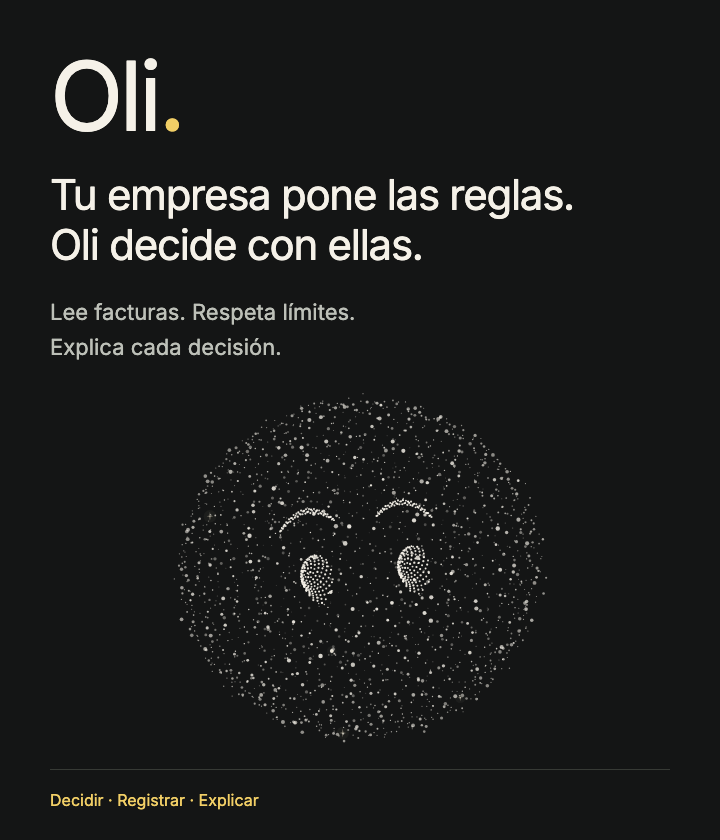
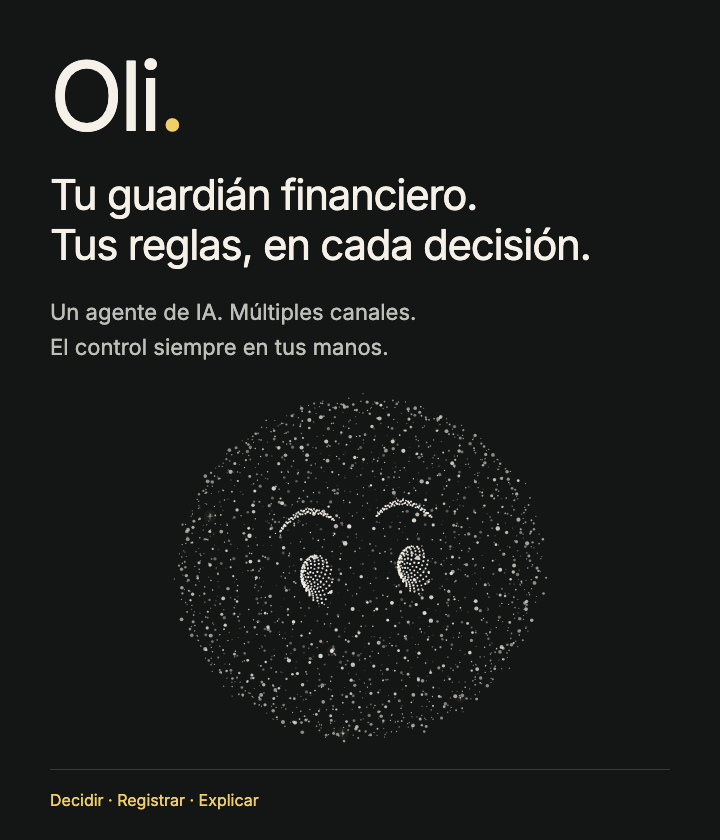
docs: position Oli as an AI financial guardian for agent workflows

Changed region(s): [[0.0611, 0.1857, 0.825, 0.4333]]

diff --git a/docs/assets/readme/cover.html b/docs/assets/readme/cover.html
@@ -3,6 +3,6 @@
 @font-face{font-family:Inter;src:url('../../../examples/conversation-proposal/assets/inter.ttf')}*{box-sizing:border-box}html,body{margin:0;background:#141515;color:#f5f1e8;font-family:Inter,sans-serif}.hero{position:relative;width:1440px;height:560px;overflow:hidden;padding:58px 72px}h1{font-size:96px;letter-spacing:-.04em;font-weight:500;margin:0 0 26px;line-height:1}.point{color:#f2cf66}.promise{font-size:42px;font-weight:400;line-height:1.19;letter-spacing:-.03em;margin:0;max-width:810px}.desc{font-size:22px;color:#bdc0b8;line-height:1.6;margin:25px 0 0}.footer{position:absolute;bottom:42px;left:72px;right:72px;border-top:1px solid #373a35;padding-top:20px;display:flex;justify-content:space-between;font-size:16px;color:#bdc0b8}.footer span:first-child{color:#f2cf66}.mascot{position:absolute;right:-8px;top:-44px;width:600px;height:600px}canvas{display:block;width:100%;height:100%}.expressions{width:1440px;height:350px;display:flex;background:#141515;padding:15px 40px 38px}.expression{flex:1;display:flex;flex-direction:column;align-items:center}.expression canvas{width:250px;height:250px}.expression span{font-size:20px;color:#bdc0b8;margin-top:10px}.expressions{display:none}body[data-view="expressions"] .hero{display:none}body[data-view="expressions"] .expressions{display:flex}
 body[data-view="mobile"] .hero{width:720px;height:840px;padding:48px 50px}body[data-view="mobile"] .mascot{right:110px;top:318px;width:500px;height:500px}body[data-view="mobile"] .footer{left:50px;right:50px;bottom:30px}body[data-view="mobile"] .footer span:last-child{display:none}
 </style>
-<div class="hero"><h1>Oli<span class="point">.</span></h1><p class="promise">Tu empresa pone las reglas.<br>Oli decide con ellas.</p><p class="desc">Lee facturas. Respeta límites.<br>Explica cada decisión.</p><div class="mascot"><canvas id="oli"></canvas></div><div class="footer"><span>Decidir · Registrar · Explicar</span><span>Construida para el reto Blinka / 30X</span></div></div>
+<div class="hero"><h1>Oli<span class="point">.</span></h1><p class="promise">Tu guardián financiero.<br>Tus reglas, en cada decisión.</p><p class="desc">Un agente de IA. Múltiples canales.<br>El control siempre en tus manos.</p><div class="mascot"><canvas id="oli"></canvas></div><div class="footer"><span>Decidir · Registrar · Explicar</span><span>Construida para el reto Blinka / 30X</span></div></div>
 <div class="expressions"><div class="expression"><canvas data-state="listening"></canvas><span>Escuchando</span></div><div class="expression"><canvas data-state="thinking"></canvas><span>Pensando</span></div><div class="expression"><canvas data-state="focused"></canvas><span>Concentrada</span></div><div class="expression"><canvas data-state="celebrating"></canvas><span>Celebrando</span></div></div>
 <script type="module">import{OliCanvas}from'../../../packages/oli/src/renderer.js';if(new URLSearchParams(location.search).has('expressions'))document.body.dataset.view='expressions';else if(new URLSearchParams(location.search).has('mobile'))document.body.dataset.view='mobile';const c=document.querySelector('#oli');window.oli=new OliCanvas(c,{state:'happy',dark:true,paused:true,particles:2000});window.expressions=[...document.querySelectorAll('[data-state]')].map(c=>new OliCanvas(c,{state:c.dataset.state,dark:true,paused:true,particles:1600}));window.ready=true;</script></html>

diff --git a/README.md b/README.md
@@ -2,7 +2,7 @@
   <a href="https://oli30x.ultramare.dev">
     <picture>
       <source media="(max-width: 600px)" srcset="docs/assets/readme/oli-portada-movil.png">
-      <img src="docs/assets/readme/oli-portada.png" alt="Oli. Tu empresa pone las reglas. Oli decide con ellas: lee facturas, respeta límites y explica cada decisión." width="100%">
+      <img src="docs/assets/readme/oli-portada.png" alt="Oli, tu guardián financiero. Un agente de IA que sigue tus reglas, conectado a tus canales y a otros agentes." width="100%">
     </picture>
   </a>
 </p>
@@ -14,15 +14,30 @@
   <a href="#probar-en-local">Probar en local</a>
 </p>
 
-# De la factura a una decisión explicada
+# Oli, tu guardián financiero
 
-Oli es un agente de cuentas por pagar. Una empresa define sus proveedores, acuerdos y límites; Oli lee cada factura, contrasta la información y decide si puede autorizarla, debe frenarla o necesita que una persona intervenga. Cada decisión queda registrada con sus motivos y la política que la permitió.
+**Un agente de IA que cuida las decisiones de pago de tu empresa siguiendo tus reglas.**
+
+Oli reúne un dashboard de control web y móvil, una interfaz conversacional, canales de integración y una skill para que otros agentes deleguen la revisión de facturas desde sus orquestadores o harnesses. Tú defines el mandato; Oli lee los documentos, contrasta los datos y aplica tus reglas para autorizar, frenar o escalar cada caso a una persona.
+
+Tu mandato define su autonomía: a quién puede autorizar, por cuánto, con qué acuerdos y dentro de qué presupuesto. Cada decisión conserva una explicación y un rastro auditable. Puedes trabajar con Oli directamente o incorporarla a un flujo multiagente; la autoridad sobre la autorización permanece en Oli y sus controles.
 
 Construida para el [reto Blinka de 30X](master_files/RETO_BLINKA.md). **Todas las empresas y facturas de esta demo son ficticias. Las autorizaciones y reservas son simuladas; Oli no mueve dinero.** El acceso a la aplicación publicada se facilita por un canal privado.
 
 ![Dashboard de Oli con facturas que necesitan atención, decisiones registradas y presupuesto disponible.](docs/assets/readme/dashboard.png)
 
-*Un lugar para saber qué está resuelto, qué necesita tu atención y cuánto presupuesto queda.*
+*Tu centro de control: supervisa la autonomía de Oli, revisa excepciones y consulta decisiones y presupuesto.*
+
+## Un agente, varios puntos de entrada
+
+| Cómo trabajas con Oli | Para qué sirve |
+| --- | --- |
+| **Dashboard web y móvil** | Configurar el mandato, revisar facturas, resolver intervenciones humanas y consultar el historial. |
+| **Conversación con Oli** | Consultar tus cuentas por pagar, adjuntar documentos y confirmar propuestas de cambios mediante herramientas acotadas. |
+| **Telegram y correo** | Incorporar documentos desde los canales de trabajo de la empresa al mismo flujo de revisión. |
+| **Oli Skill para otros agentes** | Delegar la revisión desde un orquestador o harness compatible con skills o herramientas HTTP, y recuperar la decisión de Oli. |
+
+Cada canal llega al mismo guardián: los documentos pasan por los controles de lectura, el mandato vigente y el motor de política antes de una autorización.
 
 ## Así trabaja Oli
 
@@ -69,7 +84,15 @@ La misma aplicación se adapta al móvil para consultar cuentas, revisar el esta
   <img src="docs/assets/readme/movil.png" alt="Oli en un teléfono: conversación, mascota y controles para adjuntar documentos y escribir." width="280">
 </p>
 
-Además de la web, el proyecto incluye ingreso por [Telegram](docs/TELEGRAM.md), una [bandeja de correo](docs/EMAIL.md) y una [Oli Skill](apps/web/public/skills/oli/SKILL.md) para agentes con acceso limitado. Los canales comparten el flujo de procesamiento y sus controles: la entrada de un documento no concede autorización.
+Además del dashboard y la conversación, puedes incorporar documentos mediante [Telegram](docs/TELEGRAM.md) y una [bandeja de correo](docs/EMAIL.md). Los canales comparten el flujo de procesamiento y sus controles: la entrada de un documento no concede autorización.
+
+## Oli dentro de tu ecosistema agéntico
+
+La [Oli Skill](apps/web/public/skills/oli/SKILL.md) permite que otro agente delegue la revisión de una factura a Oli y lleve su decisión de vuelta al flujo de trabajo. Puedes incorporarla a un orquestador o harness que admita skills; también está disponible el contrato HTTP para runtimes con herramientas de red.
+
+El agente coordinador envía el documento original, solicita su evaluación y consulta el resultado. Oli se encarga de leer, corroborar y decidir bajo el mandato de la empresa. La conexión tiene una clave propia y acceso limitado a las facturas que presentó: no puede cambiar tus reglas ni resolver excepciones humanas.
+
+**Tus agentes coordinan el trabajo. Oli custodia las autorizaciones de pago siguiendo tus reglas.** Cuando hace falta una persona, el flujo vuelve al dashboard para su intervención y queda registrado.
 
 ## Qué medimos
 
@@ -101,7 +124,7 @@ flowchart LR
     E --> G[("D1: decisión y reserva")]
 ```
 
-El Worker coordina el flujo. El motor puro de `packages/domain` evalúa la política; D1 registra las decisiones y crea la reserva de forma atómica al autorizar. El servidor calcula los hashes y la identidad de la evidencia. Las citas o la confianza del modelo no prueban exactitud por sí mismas.
+El Worker es el runtime que coordina a Oli: conecta el modelo y sus herramientas acotadas con los canales, los lectores y la persistencia. El motor puro de `packages/domain` evalúa la política; D1 registra las decisiones y crea la reserva de forma atómica al autorizar. El servidor calcula los hashes y la identidad de la evidencia. Las citas o la confianza del modelo no prueban exactitud por sí mismas.
 
 | Capa | Implementación |
 | --- | --- |
@@ -109,6 +132,7 @@ El Worker coordina el flujo. El motor puro de `packages/domain` evalúa la polí
 | API y procesamiento | Cloudflare Workers y Queues |
 | Persistencia | D1 para registros; R2 para documentos privados |
 | Lectura | Modelos vía OpenRouter y corroboración independiente según el formato |
+| Integración con otros agentes | Oli Skill, cliente Python y API HTTP con permisos por conexión |
 | Mascota | Canvas 2D de partículas, con renderer y wrapper React propios |
 
 ## Probar en local
@@ -146,12 +170,13 @@ Los proveedores se simulan en estas pruebas; sus resultados no son métricas OCR
 | Los registros y las reservas | [Base de datos](packages/database/README.md) |
 | Los casos ficticios y sus expectativas | [Fixtures de empresas](docs/fixtures/company-journey/README.md) |
 | La mascota y sus estados | [Paquete Oli](packages/oli/README.md) |
+| Cómo delegar desde otro agente o harness | [Oli Skill y contrato de integración](apps/web/public/skills/oli/SKILL.md) |
 | La preparación del repositorio público | [Publicación y saneamiento](docs/PUBLICACION.md) |
 
 ---
 
 ![Cuatro expresiones de la mascota Oli de partículas: escuchando, pensando, concentrada y celebrando.](docs/assets/readme/oli-expresiones.png)
 
-<p align="center"><strong>Decidir. Registrar. Explicar.</strong><br>Oli para el reto Blinka · Oscar y Whady</p>
+<p align="center"><strong>Tu guardián financiero. Tus reglas, en cada decisión.</strong><br>Oli para el reto Blinka · Oscar y Whady</p>
 
 <sub>Las capturas muestran la aplicación publicada el 18 de octubre de 2026 con datos de demostración; no representan una nueva corrida del benchmark. La portada y las expresiones se renderizaron con la mascota del proyecto. <a href="docs/assets/readme/README.md">Origen de las imágenes</a>.</sub>
